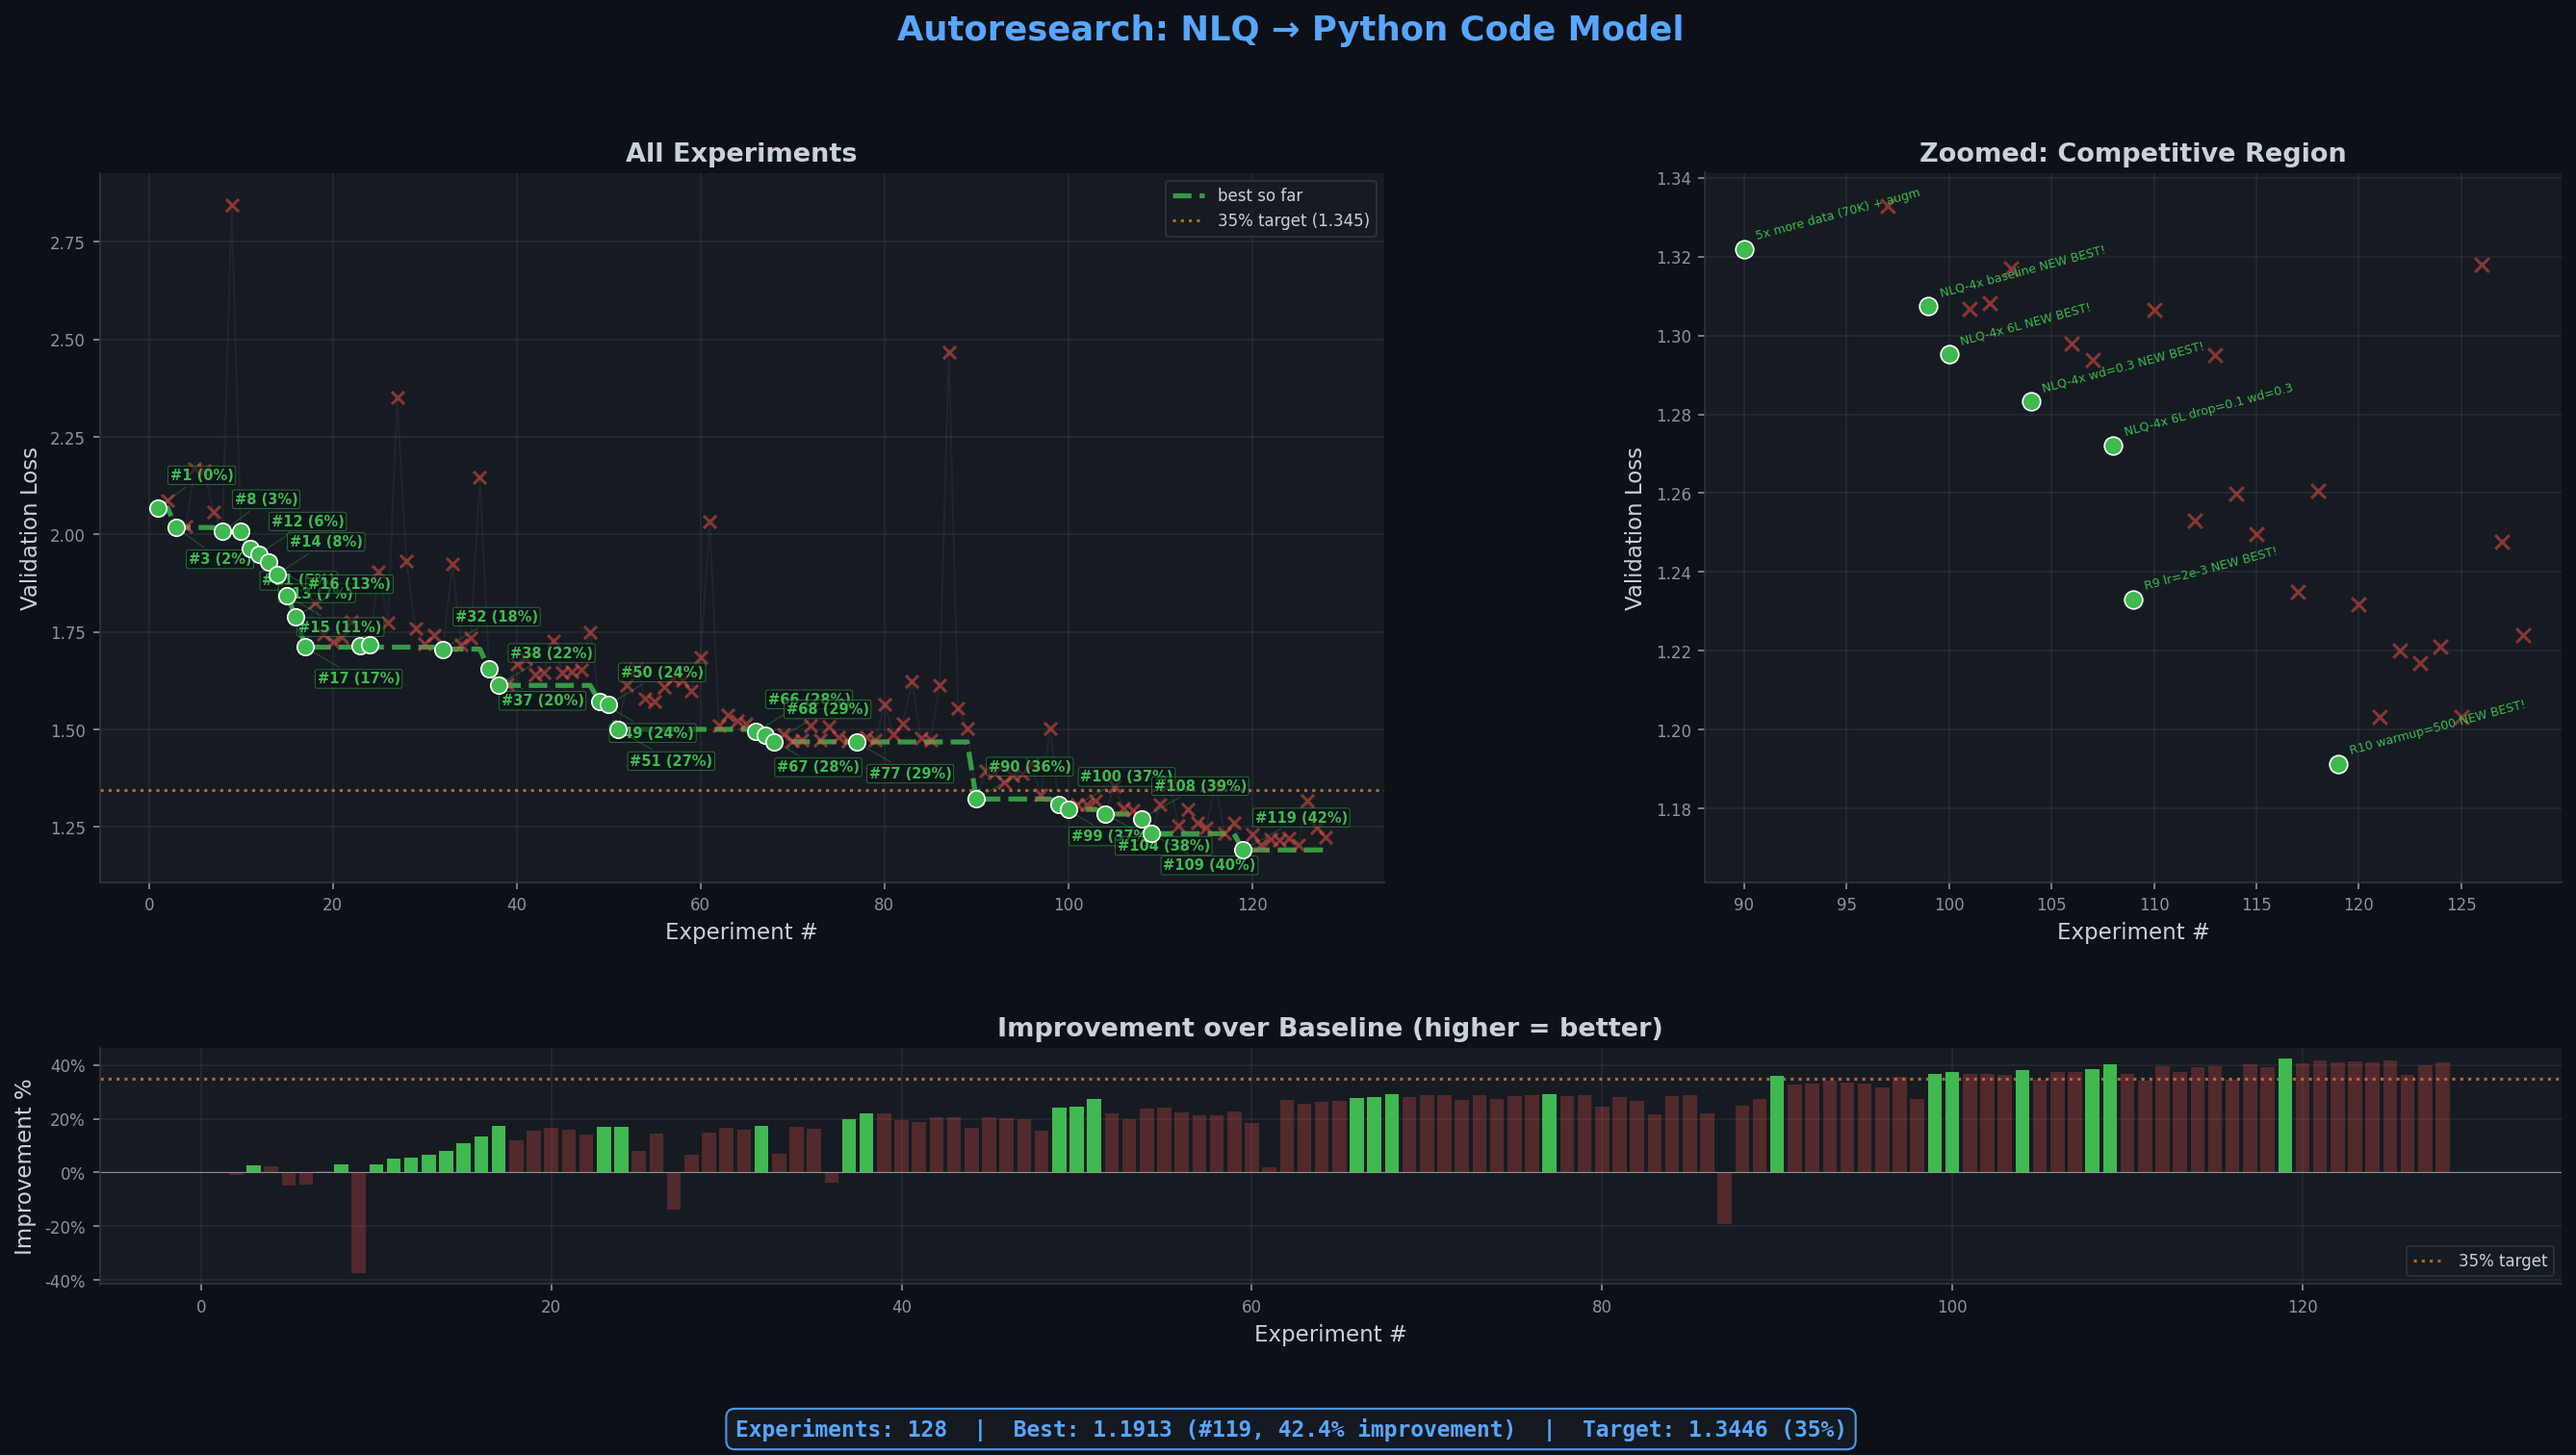
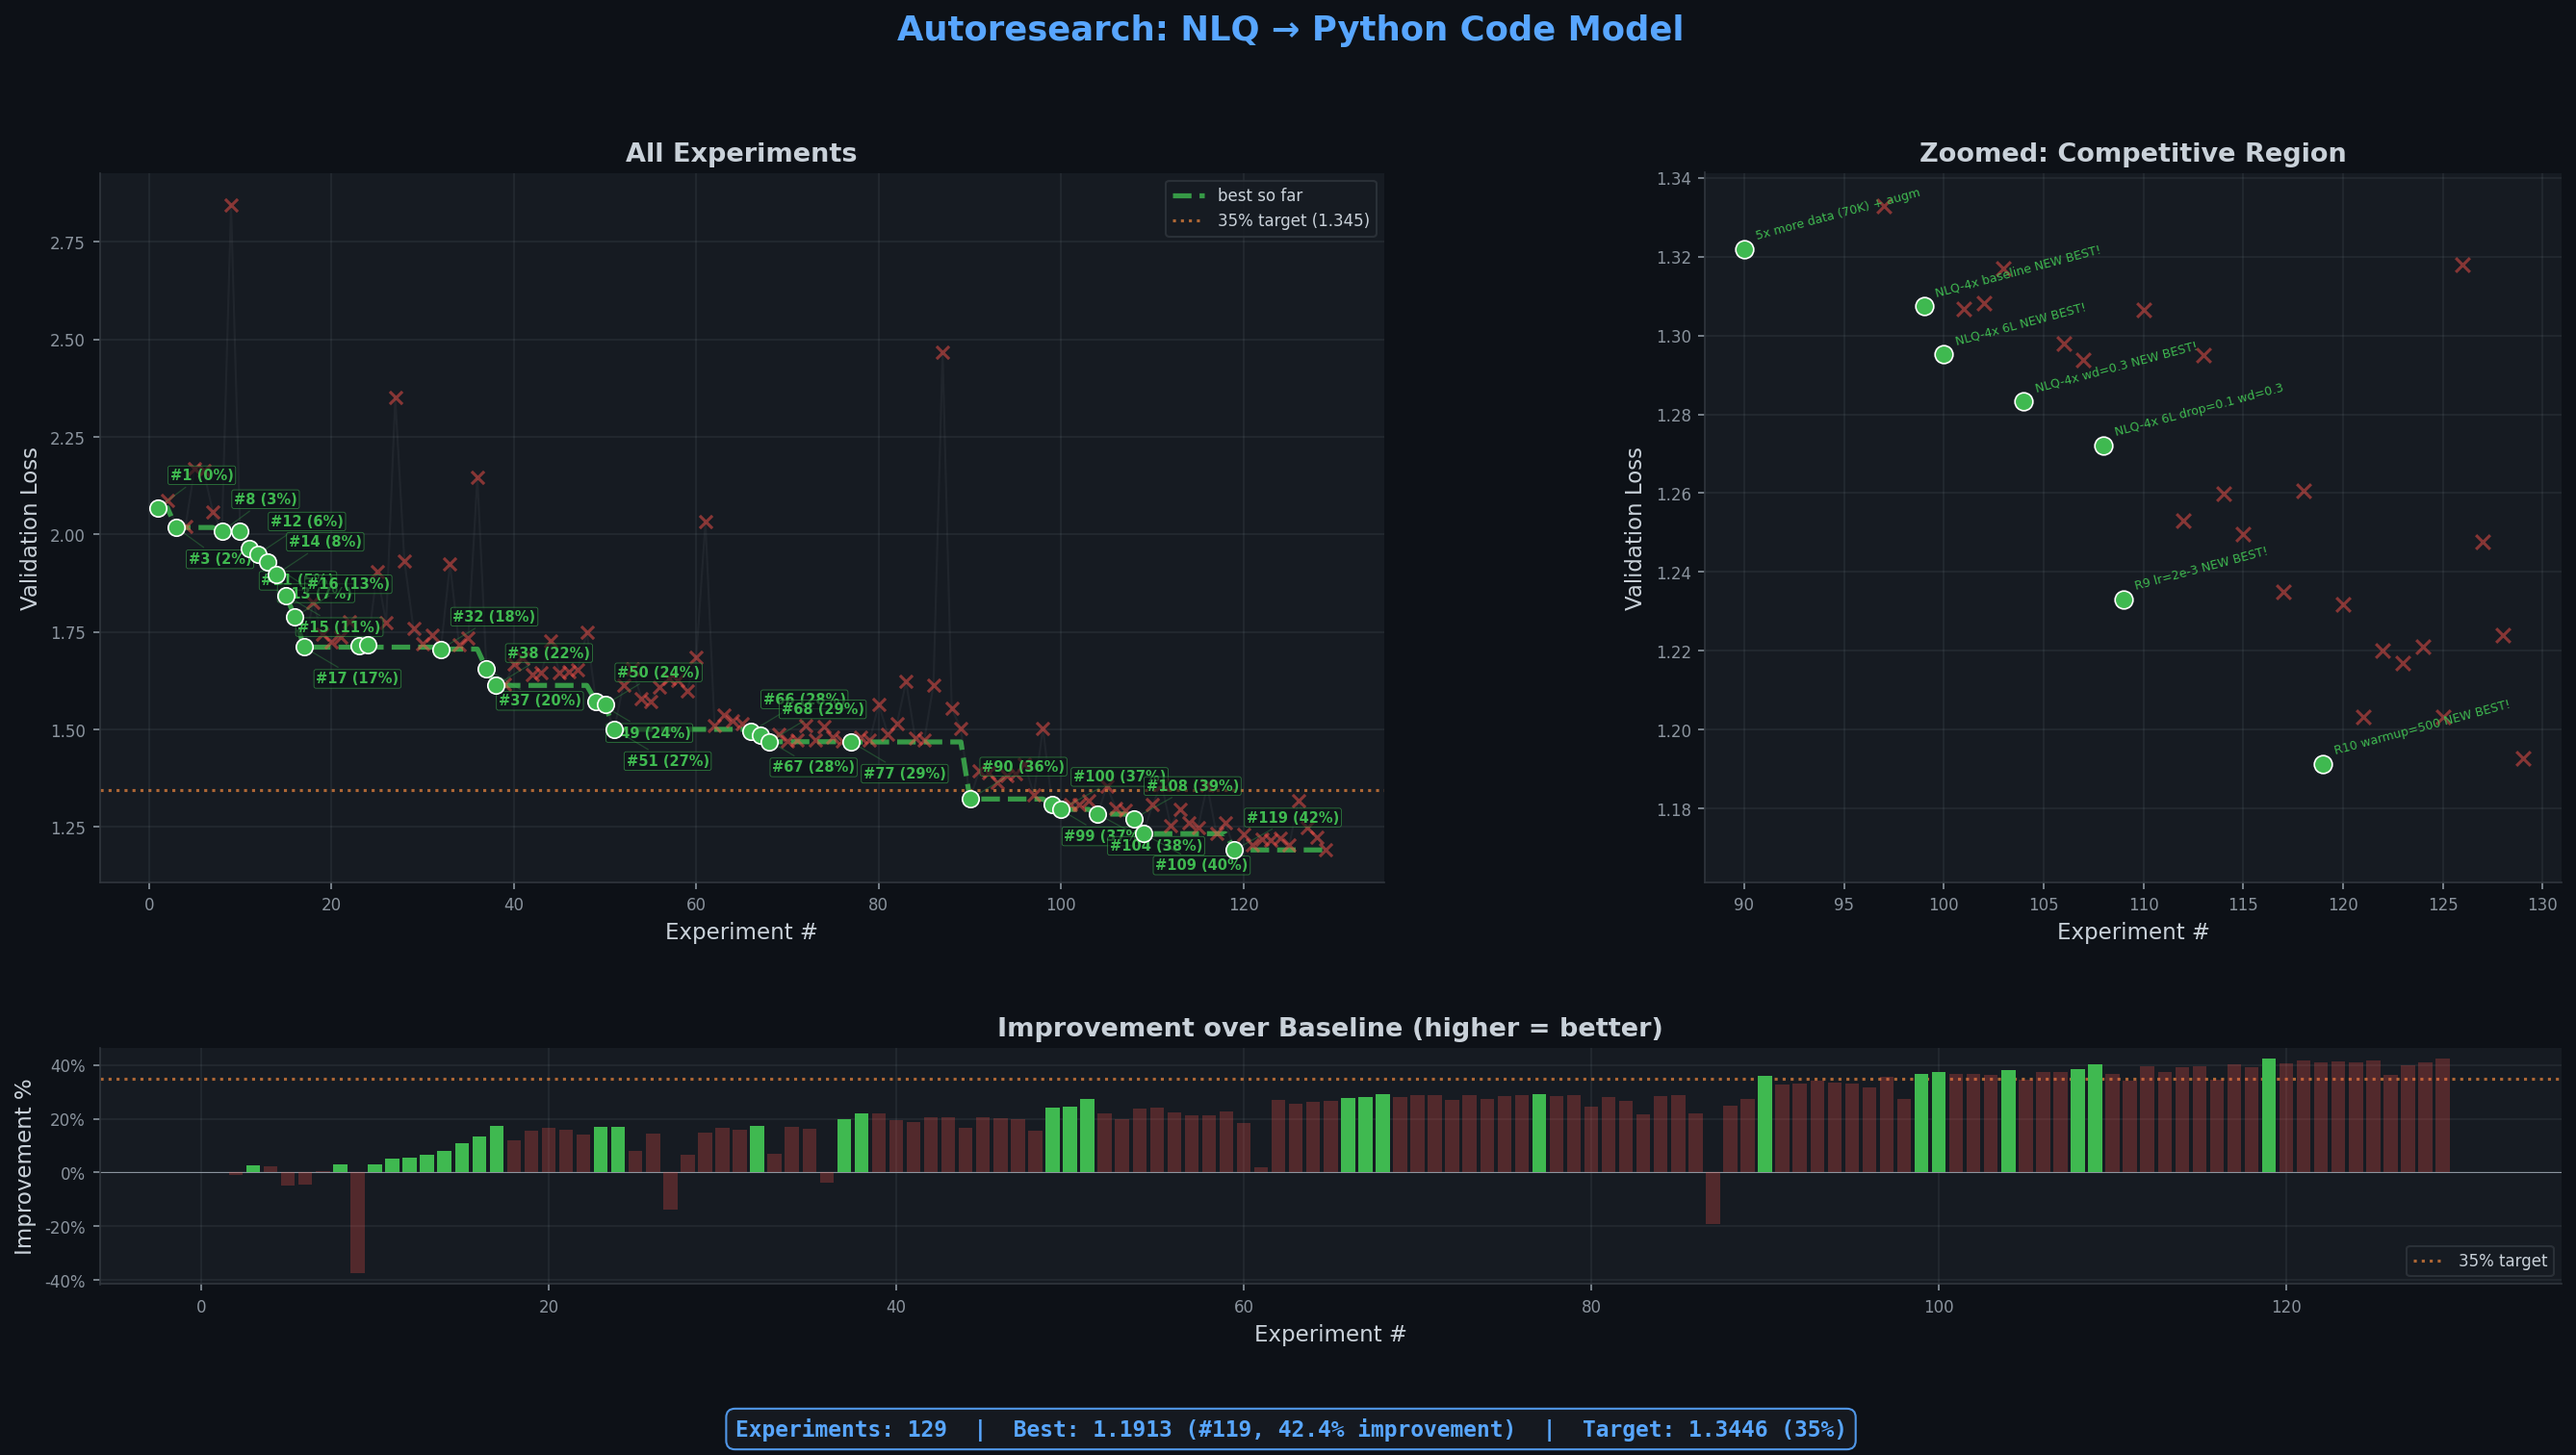
exp 129: R11 wd=0.25 (val=1.1927, 42.3%)

diff --git a/train_mlx.py b/train_mlx.py
@@ -49,7 +49,7 @@ DROPOUT = 0.1
 BATCH_SIZE = 8
 LEARNING_RATE = 2e-3
 WEIGHT_DECAY = 0.3
-WARMUP_STEPS = 300
+WARMUP_STEPS = 500
 TIME_BUDGET = 600
 GRAD_CLIP = 1.0
 DECAY_STEPS = 8000
